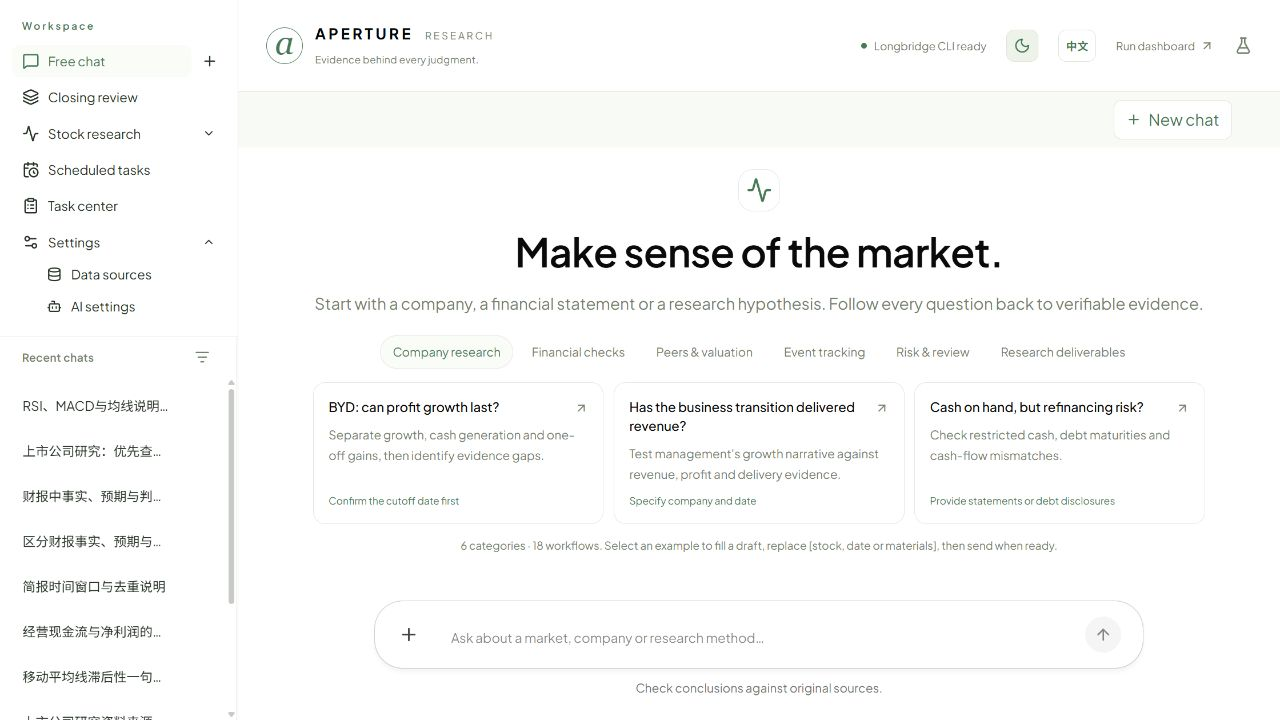
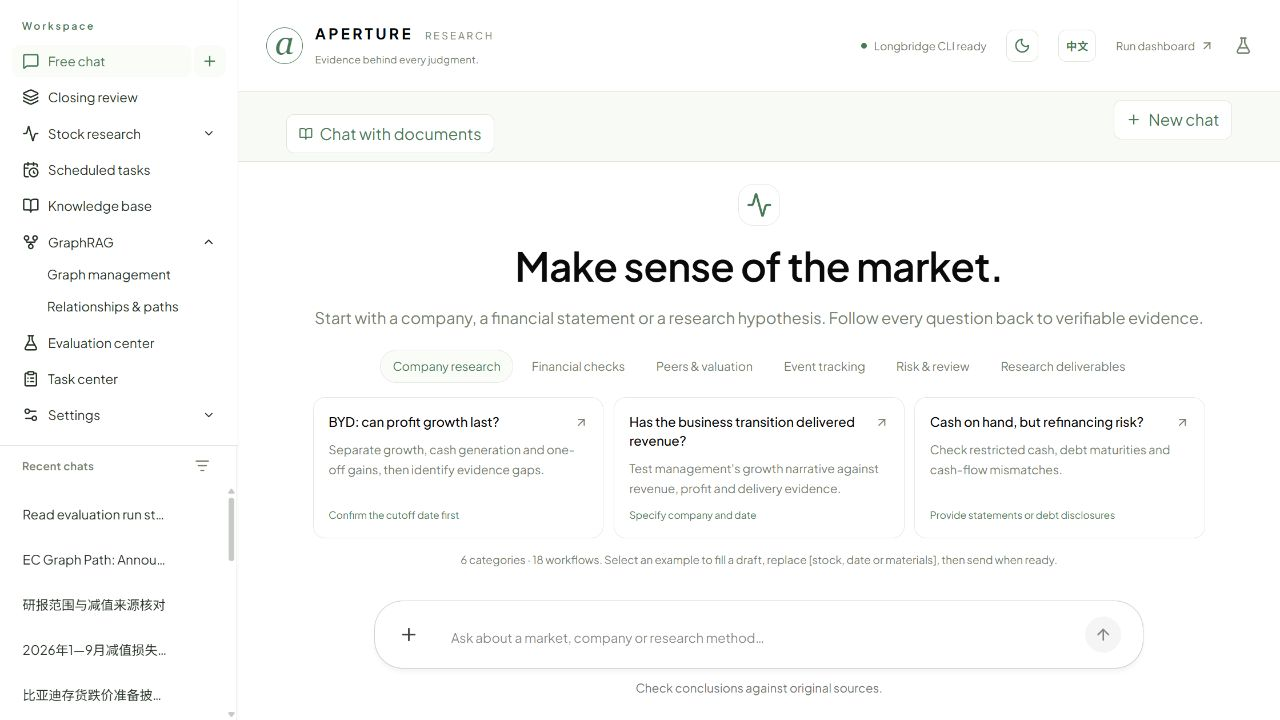
feat: finalize evaluation evidence and document knowledge workflows

diff --git a/copilotkit-app/src/components/evaluations/run-view.tsx b/copilotkit-app/src/components/evaluations/run-view.tsx
@@ -4,6 +4,7 @@ import {ArrowLeft,ExternalLink} from "lucide-react";
 import {researchRequest} from "@/components/workbench-panels";
 import {useDocumentCopy,errorText} from "@/components/documents/shared";
 import {useKnowledgeResource} from "@/components/knowledge/shared";
+import {DocumentDialog} from "@/components/documents/detail";
 import {KnowledgeCitationViewer} from "@/components/knowledge/citation-viewer";
 import {EvalDialog,Status,milliseconds} from "./shared";
 import {AttemptSummary} from "./attempt-summary";
@@ -13,6 +14,7 @@ import type {EvalRun,Attempt} from "./types";
 export function RunView({id,onBack,onOpenRun,onTask}:{id:string;onBack:()=>void;onOpenRun:(id:string)=>void;onTask:(id:string)=>void}){
   const c=useDocumentCopy();const [revision,refresh]=useState(0);const [page,setPage]=useState(1);const [filter,setFilter]=useState("");const [attemptId,setAttemptId]=useState<string|null>(null);const [retry,setRetry]=useState(false);const [cancel,setCancel]=useState(false);const [busy,setBusy]=useState(false);const [error,setError]=useState("");const [citation,setCitation]=useState<{searchId:string;citationId:string}|null>(null);
   const [notice,setNotice]=useState("");
+  const [original,setOriginal]=useState<NonNullable<Attempt["citations"]>[number]|null>(null);
   const [pollMs,setPollMs]=useState(3000);
   const state=useKnowledgeResource<EvalRun>(`evaluations/runs/${id}?page=${page}&status=${filter}`,revision,pollMs);
   const attempt=useKnowledgeResource<{id:string;case:unknown;status:string;result:Attempt}>(attemptId?`evaluations/runs/${id}/attempts/${attemptId}`:null,revision,0);
@@ -32,7 +34,8 @@ export function RunView({id,onBack,onOpenRun,onTask}:{id:string;onBack:()=>void;
     {error&&<p role="alert" className="form-error">{error}</p>}
     <div className="finance-card evaluation-table"><table><thead><tr>{[c("Case / repetition","案例 / 次数"),c("Result","结果"),c("Elapsed","耗时"),c("Provider calls","服务调用"),c("Inspect","检查")].map(x=><th key={x}>{x}</th>)}</tr></thead><tbody>{data.attempts.map(x=><tr key={x.id}><td>{x.case_name||x.case_id.slice(0,20)} · {x.repetition+1}</td><td><Status value={x.status}/>{x.error_type&&<small>{x.error_type}</small>}</td><td>{milliseconds(x.elapsed_ms)}</td><td>{x.model_calls??0}</td><td><button className="chat-config-toggle" onClick={()=>setAttemptId(x.id)}>{c("Details","详情")}</button></td></tr>)}</tbody></table>{!data.attempts.length&&<p>{c("No attempts match this filter.","没有符合筛选的案例。")}</p>}</div>
     <div className="document-actions"><button className="chat-config-toggle" disabled={page===1} onClick={()=>setPage(v=>v-1)}>{c("Previous","上一页")}</button><span>{page}</span><button className="chat-config-toggle" disabled={page*50>=data.total} onClick={()=>setPage(v=>v+1)}>{c("Next","下一页")}</button></div>
-    {attemptId&&<EvalDialog title={c("Attempt evidence & scoring","案例证据与评分")} onClose={()=>setAttemptId(null)}>{attempt.loading?<p role="status">{c("Loading actual attempt…","正在读取真实执行结果…")}</p>:attempt.error?<p role="alert">{attempt.error}</p>:attempt.data&&<><Status value={attempt.data.status}/><p>{attempt.data.result.notice}</p>{attempt.data.result.answer&&<section><h3>{c("Generated answer","实际生成回答")}</h3><p className="evaluation-answer">{attempt.data.result.answer}</p></section>}<h3>{c("Deterministic checks and measured stages","确定性检查与阶段实测")}</h3><AttemptSummary value={attempt.data.result}/>{attempt.data.result.citations?.map((hit,index)=><button key={index} className="chat-config-toggle" disabled={!hit.citation_id||!(attempt.data?.result.search_id||attempt.data?.result.search_ids?.[0])} onClick={()=>setCitation({searchId:attempt.data!.result.source_links?.find(x=>x.citation_id===hit.citation_id&&x.document_id===hit.document_id&&x.page_number===hit.page_number)?.search_id||attempt.data!.result.search_id||attempt.data!.result.search_ids![0],citationId:hit.citation_id!})}>{c("Original PDF page","原始 PDF 页")} {hit.page_number}<ExternalLink size={13}/></button>)}<details><summary>{c("Published case & human reference · never sent as an answer hint","已发布案例与人工标准 · 不作为答案提示")}</summary><pre>{JSON.stringify(attempt.data.case,null,2)}</pre></details></>}</EvalDialog>}
+    {attemptId&&<EvalDialog title={c("Attempt evidence & scoring","案例证据与评分")} onClose={()=>setAttemptId(null)}>{attempt.loading?<p role="status">{c("Loading actual attempt…","正在读取真实执行结果…")}</p>:attempt.error?<p role="alert">{attempt.error}</p>:attempt.data&&<><Status value={attempt.data.status}/><p>{attempt.data.result.notice}</p>{attempt.data.result.answer&&<section><h3>{c("Generated answer","实际生成回答")}</h3><p className="evaluation-answer">{attempt.data.result.answer}</p></section>}<h3>{c("Deterministic checks and measured stages","确定性检查与阶段实测")}</h3><AttemptSummary value={attempt.data.result}/>{attempt.data.result.citations?.map((hit,index)=><button key={index} className="chat-config-toggle" onClick={()=>{const searchId=hit.search_id||attempt.data!.result.source_links?.find(x=>x.citation_id===hit.citation_id&&x.document_id===hit.document_id&&x.page_number===hit.page_number)?.search_id||attempt.data!.result.search_id||attempt.data!.result.search_ids?.[0];if(hit.citation_id&&searchId)setCitation({searchId,citationId:hit.citation_id});else setOriginal(hit);}}>{c("Original PDF page","原始 PDF 页")} {hit.page_number}<ExternalLink size={13}/></button>)}<details><summary>{c("Published case & human reference · never sent as an answer hint","已发布案例与人工标准 · 不作为答案提示")}</summary><pre>{JSON.stringify(attempt.data.case,null,2)}</pre></details></>}</EvalDialog>}
+    {original&&<DocumentDialog id={original.document_id} initialPage={original.page_number} citation={{quote:original.quote||"",document_version:original.document_version||1,metadata_revision:original.metadata_revision||1,published_at:original.published_at,published_on:original.published_on}} readOnly onClose={()=>setOriginal(null)} onChanged={()=>{}} onVersion={()=>{}} onSwitch={()=>{}} onTask={onTask}/>}
     {citation&&<KnowledgeCitationViewer selection={citation} onClose={()=>setCitation(null)}/>}
     {retry&&<RunDialog initial={{...data.config,parent_run_id:data.id}} onClose={()=>setRetry(false)} onStarted={next=>{setRetry(false);onOpenRun(next);setPage(1);}}/>}
     {cancel&&<EvalDialog title={c("Cancel evaluation run","取消评测运行")} onClose={()=>!busy&&setCancel(false)}><p>{c("Completed attempts and reserved/known usage remain. Unknown provider outcomes are not automatically repeated.","已完成案例与预留/已知用量会保留。服务结果未知的调用不会自动重复。")}</p><div className="document-actions"><button className="chat-config-toggle" disabled={busy} onClick={()=>setCancel(false)}>{c("Keep running","继续运行")}</button><button className="chat-config-toggle danger-button" disabled={busy} onClick={async()=>{setBusy(true);try{const result=await researchRequest<{status:string}>(`evaluations/runs/${id}/cancel`,"POST",{});setNotice(result.status==="cancelled"?c("Run cancelled. Completed results are retained.","运行已取消，已完成结果已保留。"):c("This run had already ended. Its saved results are retained.","该运行已结束，原结果已保留。"));refresh(v=>v+1);setCancel(false);}catch(err){setError(errorText(err,c));}finally{setBusy(false);}}}>{c("Confirm cancellation","确认取消")}</button></div></EvalDialog>}

diff --git a/copilotkit-app/src/components/evaluations/types.ts b/copilotkit-app/src/components/evaluations/types.ts
@@ -6,7 +6,7 @@ export type EvalCase = {
   collection_id?:string|null;calculation?:{operation:string;figure_ids:string[];target_unit?:string;signs?:number[]}|null; protected?:boolean;
 };
 export type Dataset={id:string;name:string;description:string;revision:number;archived:boolean;case_count:number;cases:EvalCase[];versions:{id:string;number:number;fingerprint:string;counts:Record<string,number>;created_at:string}[]};
-export type Attempt={calculation?:{value:string;currency:string;unit:string;period_start?:string;period_end?:string;formula?:string};edge_count?:number;path_count?:number;id:string;case_id:string;case_name?:string;repetition:number;status:string;elapsed_ms?:number;model_calls?:number;retrieval_ms?:number;model_ms?:number;measurement?:string;answer?:string;checks?:Record<string,boolean>;metrics?:Record<string,unknown>;error_type?:string;notice?:string;search_id?:string;search_ids?:string[];citations?:{document_id:string;page_number:number;citation_id?:string}[];source_links?:{search_id:string;citation_id:string;document_id:string;page_number:number}[];trace_id?:string;usage?:Record<string,number>};
+export type Attempt={calculation?:{value:string;currency:string;unit:string;period_start?:string;period_end?:string;formula?:string};edge_count?:number;path_count?:number;id:string;case_id:string;case_name?:string;repetition:number;status:string;elapsed_ms?:number;model_calls?:number;retrieval_ms?:number;model_ms?:number;measurement?:string;answer?:string;checks?:Record<string,boolean>;metrics?:Record<string,unknown>;error_type?:string;notice?:string;search_id?:string;search_ids?:string[];citations?:{document_id:string;page_number:number;citation_id?:string;search_id?:string;quote?:string;document_version?:number;metadata_revision?:number;published_on?:string|null;published_at?:string|null}[];source_links?:{search_id:string;citation_id:string;document_id:string;page_number:number}[];trace_id?:string;usage?:Record<string,number>};
 export type Summary={total:number;finished:number;counts:Record<string,number>;pass_rate_all:number|null;recall_at_5:number|null;recall_samples:number;model_calls:number;reported_tokens:number|null;usage_unknown_attempts:number;latency:{samples:number;p50_ms:number|null;p95_ms:number|null;raw_ms:number[]};denominator:string};
 export type RunOptions={version_id:string;partition:"development"|"acceptance";acceptance_confirmed:boolean;mode:"quality"|"retrieval_benchmark"|"list_benchmark"|"agent_performance";repetitions:number;concurrency:1;search_mode:"keyword"|"hybrid";allow_model:boolean;max_calls:number;max_tokens:number;max_output_tokens:number;max_pages:number;timeout_seconds:number;parent_run_id?:string|null};
 export type EvalRun={id:string;dataset_id:string;version_id:string;parent_run_id:string|null;status:string;created_at:string;started_at?:string;queue_wait_ms?:number|null;events?:{kind:string;at:string;metadata:Record<string,unknown>}[];config:RunOptions;summary:Summary&{stages?:Record<string,{samples:number;p50_ms:number|null;p95_ms:number|null}>;unreported_calls?:number};attempts:Attempt[];total:number;counters:{reserved_calls:number;reserved_tokens:number};manifest:Record<string,unknown>;error?:string;progress:{id:string;status:string;detail:string}[]};

diff --git a/copilotkit-app/agent/src/evaluations/execution.py b/copilotkit-app/agent/src/evaluations/execution.py
@@ -78,7 +78,7 @@ def citation_checks(case, hits):
     allowed = {d["id"] for d in case["snapshot"]["documents"] if d["eligible"]}
     with transaction() as db:
         invalid = sum(not evidence_current(db, [hit], allowed) for hit in hits)
-    return {"citations": [{k: h[k] for k in ("document_id", "page_number", "document_version", "metadata_revision", "document_sha256", "citation_id") if k in h} for h in hits],
+    return {"citations": [{k: h[k] for k in ("document_id", "page_number", "document_version", "metadata_revision", "document_sha256", "citation_id", "search_id", "published_on", "published_at") if k in h} | {"quote": h.get("quote", "")[:1500]} for h in hits],
         "invalid_citations": invalid, "date_leaks": sum(h["document_id"] not in allowed for h in hits)}
 
 
@@ -120,7 +120,7 @@ async def execute_case(case, run, attempt_id, token):
         result = FigureRepository().calculate(case["collection_id"], CalculationInput.model_validate(case["calculation"]),
             eligible={d["id"] for d in case["snapshot"]["documents"] if d["eligible"]})
         period = {k: result["inputs"][0][k] for k in ("period_start", "period_end")}
-        return {"calculation_id": result["id"], "calculation": {**{k: v for k, v in result.items() if k not in {"inputs", "references", "request"}}, **period}}
+        return {**citation_checks(case, result["references"]), "calculation_id": result["id"], "calculation": {**{k: v for k, v in result.items() if k not in {"inputs", "references", "request"}}, **period}}
     return await execute_agent(case, run, attempt_id, token, options)
 
 

diff --git a/copilotkit-app/agent/src/evaluations/tools.py b/copilotkit-app/agent/src/evaluations/tools.py
@@ -19,6 +19,7 @@ async def read_evaluation_run(run_id:str):
     """Read actual progress, aggregate metrics and attempt IDs, without generated or frozen answers. No scores are invented; incomplete results are labeled."""
     UUID(run_id);data=EvaluationRepository().detail(run_id)
     data["attempts"]=[{k:a[k] for k in ("id","case_id","repetition","status","elapsed_ms","error_type") if k in a} for a in data["attempts"]]
+    data["measurement_notice"] = "Manifest pages count pinned source pages per case, not pages processed. Latency is per-attempt wall time across the configured targets, not retrieval-only unless the mode is retrieval_benchmark. Reserved calls/tokens are conservative ceilings, not invoices or proof of received provider responses."
     return data
 
 

diff --git a/copilotkit-app/agent/integration_tests/test_evaluations.py b/copilotkit-app/agent/integration_tests/test_evaluations.py
@@ -203,6 +203,8 @@ class EvaluationTests(unittest.IsolatedAsyncioTestCase):
         self.assertEqual(result["status"], "complete", str(result))
         self.assertEqual(result["summary"]["counts"]["passed"], 1, str(result["attempts"]))
         self.assertEqual(result["attempts"][0]["calculation"]["period_end"], "2026-06-30")
+        self.assertEqual(result["attempts"][0]["citations"][0]["document_id"], self.document)
+        self.assertTrue(result["attempts"][0]["citations"][0]["quote"])
 
     async def test_page_budget_and_concurrent_runs(self):
         doc=self.material("Synthetic source");await self.build(doc)

diff --git a/README.md b/README.md
@@ -4,7 +4,7 @@
 
 An evidence-first financial research workspace built with **CopilotKit, Next.js, LangGraph and FastAPI**.
 
-Configure a research team, follow its tool activity, inspect the sources behind a report, and keep asking questions in the report's own context. Bring your own Qwen, DeepSeek or GLM API connection.
+Research companies, manage your source documents, explore reviewed relationships and measure the results. Aperture connects native streaming chat with an online knowledge base, cited RAG, GraphRAG and a versioned evaluation center. Bring your own Qwen, DeepSeek or GLM API connection.
 
 [Interface previews](#interface-previews) · [Features](#features) · [Data](#data) · [Supported AI](#supported-ai) · [Quick start](#quick-start) · [Architecture](#architecture) · [Development](#development)
 
@@ -12,29 +12,35 @@ Configure a research team, follow its tool activity, inspect the sources behind 
 
 ## Interface previews
 
-Actual screenshots of the local application, with public-market research used as examples. The interface defaults to English; **EN / 中文** beside the theme button switches languages and remembers the choice. Saved reports and conversations keep their original language.
+Actual desktop captures from the running application. The interface defaults to English; **EN / 中文** beside the theme button switches languages. Both light and charcoal dark themes are available. Case names, source material and saved model outputs retain their original language.
 
-### Research chat
+### Native research chat
 
-![English research chat and finance workflow examples](docs/screenshots/chat-light.jpg)
+![CopilotKit chat and concrete finance workflow examples](docs/screenshots/chat-light.jpg)
 
-### Research configuration
+### Online knowledge management
 
-![Research target, information cutoff, market and depth](docs/screenshots/research-dark.jpg)
+![Collections, source coverage and online document management](docs/screenshots/knowledge-light.jpg)
 
-### Report and evidence
+### Reviewed GraphRAG and evidence paths
 
-![Research report with native progress stages and source citations](docs/screenshots/report-light.jpg)
+![Reviewed relationships, interactive graph and saved paths](docs/screenshots/graph-dark.jpg)
 
-### Connect your AI
+### Evaluation center
 
-![Provider selection, masked credentials, and connection test feedback](docs/screenshots/ai-settings-dark.jpg)
+![Versioned evaluation runs with actual completion, cancellation and failure states](docs/screenshots/evaluation-light.jpg)
 
-Connection-test feedback:
+### Single-stock research and reports
 
-![Successful greeting test with response and elapsed time](docs/screenshots/ai-test-feedback-dark.jpg)
+![Research configuration in charcoal dark theme](docs/screenshots/research-dark.jpg)
 
-These screenshots illustrate the interface, not a model accuracy claim or an investment recommendation. Existing research may be in Chinese even when the interface is English.
+![Research report and retained evidence](docs/screenshots/report-light.jpg)
+
+### Multi-provider AI settings
+
+![Separate AI provider settings and connection controls](docs/screenshots/ai-settings-dark.jpg)
+
+The research/configuration/report/settings images include earlier workbench views; the knowledge, graph and evaluation captures document this delivery. Public-source QA records illustrate workflows, not independent financial accuracy or investment recommendations. No original PDF corpus or user database is bundled.
 
 ## Features
 
@@ -48,6 +54,11 @@ These screenshots illustrate the interface, not a model accuracy claim or an inv
 | A-share closing review | Review a selected sample against a benchmark, volume ratios, limit-up/down and failed-breakout pools, streaks, next-day follow-through and recent industry distributions.                                                                                             |
 | Candidates and checks  | Keep observations and notes, reuse candidates in reviews and schedules, and save measurable next-trading-day conditions. While the service runs, pending checks are evaluated after the target close when data is available.                                          |
 | Scheduled research     | Draft market morning briefs, topic news roundups, watchlist move scans, filing trackers, weekly reviews or stock research. Presets fill forms; you create the schedule. Enable/disable, run now, inspect per-plan history, or delete records individually/in batches. |
+| Online knowledge base | Upload PDF/images or import supported official links; manage collections, exact document versions, publication-date evidence, extraction coverage, index builds and archive/restore. No server-preloaded folder is required. |
+| Cited document RAG | Keyword or pgvector hybrid retrieval under explicit document/date scope; native document Q&A, original PDF-page citations and exact-document binding for stock research. Missing dates and unreadable pages stay visible. |
+| Reviewed financial arithmetic | Confirm original value, unit, period and basis, then compute with Decimal. Retain reviewed input revisions, formulas, conversions and calculation history. |
+| GraphRAG | Extract relationship proposals from selected originals, verify entity identities, accept/reject/revoke with human review, publish to Neo4j, explore interactive paths and open supporting original pages. Historical snapshots preserve evidence. |
+| Evaluation center | Create/import/edit datasets, publish immutable versions and run real queued retrieval, Agent, graph, calculation or list benchmarks. Inspect checks, failures, raw latency samples, budgets, cancellation, parent-linked retries and run comparisons. |
 | AI and appearance      | Configure separate Qwen, DeepSeek and GLM profiles, test a greeting without saving, then save and activate. Switch English/Chinese and charcoal dark/fresh light themes. Responsive layouts support narrow screens.                                                   |
 
 ### Native CopilotKit, preserved
@@ -56,7 +67,16 @@ The workbench retains **CopilotChat, native tool cards, AG-UI streaming, Generat
 
 Inspector, native thread history and the Intelligence learning integration use your configured **CopilotKit Intelligence** connection. Automatic Learning here means skill extraction and review/publishing, not automatic model training. Upstream integration demonstrations remain at `/playground`.
 
-Optional **Langfuse** exports metadata-only research/tool/model traces through OpenTelemetry. Configure `LANGFUSE_PUBLIC_KEY`, `LANGFUSE_SECRET_KEY` and your regional `LANGFUSE_BASE_URL` in the server `.env`, then recreate services. Prompts, outputs, documents and reasoning are excluded; model token usage is recorded when available. Set `APERTURE_TRACING_ENABLED=false` to disable. This supplements Inspector; the [in-app evaluation center](docs/evaluations.md) now provides versioned datasets and actual background runs, with [final acceptance still in progress](docs/validation/checkpoint-3-evaluations.md).
+Optional **Langfuse** exports metadata-only research/tool/model traces through OpenTelemetry. Configure `LANGFUSE_PUBLIC_KEY`, `LANGFUSE_SECRET_KEY` and your regional `LANGFUSE_BASE_URL` in the server `.env`, then recreate services. Prompts, outputs, documents and reasoning are excluded; model token usage is recorded when available. Set `APERTURE_TRACING_ENABLED=false` to disable. This supplements Inspector; the [in-app evaluation center](docs/evaluations.md) now provides versioned datasets and actual background runs, with [measured acceptance evidence](docs/validation/checkpoint-3-evaluations.md).
+
+### Knowledge-to-evidence workflow
+
+1. **Knowledge base:** create a collection; upload an original or import a supported official link. Record a verified public release date and inspect text/visual coverage.
+2. **RAG:** build a keyword or configured hybrid index; choose a historical cutoff, search evidence and open a native chat bound to exact document versions.
+3. **GraphRAG:** use **Graph management** to extract proposals. Resolve identities and review evidence before publishing. Open **Relationships & paths** to query the reviewed graph.
+4. **Evaluation center:** add your own cases and expected pages/values, publish a version, choose budgets and explicitly start a run. Compare saved runs after source, rule or configuration changes. Chat can read actual results and request a run through a human approval card.
+
+Read the guides: [Document library and RAG](docs/document-library.md) · [Graph research](docs/graph-research.md) · [Evaluation center](docs/evaluations.md).
 
 ## Data
 
@@ -65,6 +85,7 @@ Optional **Langfuse** exports metadata-only research/tool/model traces through O
 | [Longbridge CLI](https://open.longbridge.com/) | Primary prices, daily bars, financial data, news, company announcements, community samples and exchange calendars | Supports configured HK, US, Shanghai, Shenzhen and Singapore research. Availability depends on your account, permissions and the endpoint's history window. |
 | Tencent Finance                               | Fallback unadjusted mainland daily bars                                                                           | Used when supported Longbridge historical data is unavailable; the source is recorded.                                                                      |
 | Eastmoney public data                         | A-share events, trading disclosures, share unlocks, shareholder dealings and closing market pools                 | Records are checked against dates; issuer announcement links are retained where verified. Pool counts use the source's definitions.                         |
+| Your documents | User-uploaded PDFs/images and supported official-source imports | Originals in S3-compatible storage; exact versions, publication evidence and derived text/index coverage retained. Cached public examples are not bundled or auto-loaded. |
 | Local calculations                            | Moving averages, RSI/MACD, volatility, relative performance, condition checks and report price alignment          | Computed by code from retained data. Unadjusted prices can jump around corporate actions; price changes are not total investment returns.                   |
 
 ### Research boundaries
@@ -169,21 +190,33 @@ Submitted research runs in independent Celery workers and survives API restart. 
 
 ```mermaid
 flowchart LR
-    UI[Next.js workspace + native CopilotChat] <--> Runtime[CopilotKit Runtime]
-    Runtime <-->|AG-UI streams and shared state| Agent[FastAPI + LangGraph]
+    UI[Next.js workspace / CopilotChat] <--> Runtime[CopilotKit Runtime]
+    Runtime <-->|AG-UI / tools / shared state| Agent[FastAPI / LangGraph]
     Runtime <--> Intelligence[Optional CopilotKit Intelligence]
-    UI <-->|Allowlisted research and settings API| Agent
-    Agent --> Research[Evidence → analysts → bull/bear and risk review → report]
-    Research --> Models[Qwen / DeepSeek / GLM]
-    Research --> Sources[Read-only market data + Python calculations]
-    Agent <--> PostgreSQL[PostgreSQL: reports, plans and checkpoints]
+    UI <-->|Allowlisted APIs| Agent
+    Agent --> Models[Qwen / DeepSeek / GLM]
+    Agent --> Sources[Read-only market data]
+    Agent <--> PG[PostgreSQL + pgvector]
     Agent --> Outbox[Transactional outbox]
-    Outbox --> RabbitMQ
-    RabbitMQ --> Workers[Independent Celery workers]
-    Workers --> PostgreSQL
-    Workers --> Research
-    Workers <--> Redis[Disposable market cache]
+    Outbox --> MQ[RabbitMQ]
+    MQ --> Workers[Research / documents / knowledge / evaluation workers]
+    Workers <--> PG
+    Workers <--> S3[S3-compatible originals and artifacts]
+    Workers <--> Neo4j[Reviewed graph projection]
+    Workers <--> Redis[Disposable cache]
+    Workers --> Models
+    Workers -. metadata only .-> Langfuse[Optional Langfuse]
 ```
+
+| Layer | Technology and role |
+| --- | --- |
+| Frontend | Next.js 16, React 19, TypeScript, CopilotKit 1.79; Recharts and Cytoscape for charts/graphs |
+| Agent/API | Python 3.12+, FastAPI, LangGraph, LangChain, OpenAI-compatible provider adapters |
+| Durable state | PostgreSQL 17; pgvector; SQLAlchemy/psycopg; Alembic; PostgreSQL LangGraph checkpoints |
+| Jobs and cache | Celery, RabbitMQ, transactional outbox and fenced leases; Redis TTL cache |
+| Evidence and graph | S3 API (local SeaweedFS), PDF extraction/rendering, Neo4j reviewed projections |
+| Observability and verification | Native CopilotKit Inspector, optional metadata-only Langfuse/OpenTelemetry; GitHub Actions build, domain and real-service tests |
+
 
 The model interprets evidence. Code computes technical indicators, schedules, condition outcomes and common-session comparisons.
 
@@ -198,7 +231,7 @@ The model interprets evidence. Code computes technical indicators, schedules, co
 
 ## Development
 
-Follow the [Git and PR workflow](CONTRIBUTING.md). The next GitHub delivery is split into [four user-confirmed checkpoints](docs/releases/knowledge-v0.2.md): preserve the current implementation, finish RAG/GraphRAG acceptance, implement in-app evaluation, then validate and merge through a PR. Vision, company Wiki/theses and incremental knowledge tracking follow in a later release. This branch is a development checkpoint, not a completed release.
+Follow the [Git and PR workflow](CONTRIBUTING.md). The [delivery record](docs/validation/github-knowledge-delivery.md) records local verification and the PR/CI for the knowledge/evaluation delivery. Changes go through feature branches and pull requests. Vision, company Wiki/theses and incremental knowledge tracking follow in a later release.
 
 ```powershell
 cd copilotkit-app
@@ -210,7 +243,7 @@ uv run python -m unittest discover -s tests -v
 
 The Python suite uses isolated real PostgreSQL databases and namespaced Redis cache, so infrastructure must be running. It covers research boundaries, tasks, schedules, report comparison, market review, follow-ups and provider configuration. Provider failure tests use controlled failures; real connection checks consume a small model request.
 
-Research knowledge includes online collections/documents, scoped keyword/hybrid retrieval, native document Q&A, reviewed numeric inputs with reproducible Decimal calculations, and exact-document binding for single-stock tasks. GraphRAG supports automatic proposals, explicit human identity/relationship review, publication, interactive paths and read-only graph tools inside document chat. The [checkpoint 2 acceptance record](docs/validation/checkpoint-2-rag-graph.md) documents real public-source browser workflows, production UI checks and remaining limits. See [Document library](docs/document-library.md), [Graph research](docs/graph-research.md) and the [broader validation matrix](docs/validation/research-knowledge-validation.md). The [evaluation center](docs/evaluations.md) supports online dataset/version management, real queued retrieval/Agent/graph/calculation/list evaluation, failure inspection, budgets, cancellation, retries and comparisons. Its [checkpoint 3 early-review record](docs/validation/checkpoint-3-evaluations.md) lists actual results and unfinished live Agent/UI checks. Visual verification, Wiki/theses, advanced lifecycle/governance and full production acceptance remain unfinished. This is a feature-branch checkpoint; final release/PR merge has not occurred.
+Research knowledge includes online collections/documents, scoped keyword/hybrid retrieval, native document Q&A, reviewed numeric inputs with reproducible Decimal calculations, and exact-document binding for single-stock tasks. GraphRAG supports automatic proposals, explicit human identity/relationship review, publication, interactive paths and read-only graph tools inside document chat. The [checkpoint 2 acceptance record](docs/validation/checkpoint-2-rag-graph.md) documents real public-source browser workflows, production UI checks and remaining limits. See [Document library](docs/document-library.md), [Graph research](docs/graph-research.md) and the [broader validation matrix](docs/validation/research-knowledge-validation.md). The [evaluation center](docs/evaluations.md) supports online dataset/version management, real queued retrieval/Agent/graph/calculation/list evaluation, failure inspection, budgets, cancellation, retries and comparisons. Its [evaluation acceptance record](docs/validation/checkpoint-3-evaluations.md) distinguishes actual runs, remaining coverage and deterministic scoring limits. Visual verification, Wiki/theses, advanced lifecycle/governance and full production acceptance remain unfinished. The independent frozen quality targets and broad load/fault matrix are not claimed as passing.
 
 See [validation notes](copilotkit-app/VALIDATION.md) for actual test paths and unverified areas, and the [research roadmap](copilotkit-app/RESEARCH-ROADMAP.md) for remaining gaps. Full commercial production readiness is not implied by a successful local build.
 
@@ -222,6 +255,7 @@ copilotkit-app/
   agent/main.py     FastAPI entry point and LangGraph lifecycle
   agent/src/        Model adapters, data, workflows, persistence and scheduling
   agent/tests/      Business logic and boundary tests
+  agent/integration_tests/  Real-service and recovery checks
   scripts/          Build/start helpers and integration checks
 docs/screenshots/   Actual interface previews
 ```
@@ -229,3 +263,11 @@ docs/screenshots/   Actual interface previews
 ## Acknowledgments and license
 
 See [LICENSE](copilotkit-app/LICENSE). Market-data and model access remain subject to their providers' terms. Research output is for information and learning, not personalized investment advice.
+
+## Current limits and next steps
+
+- This release supports local single-user research. Public authentication/tenant isolation, billing and managed production hosting remain future work.
+- Graph extraction creates reviewable proposals; an LLM proposal is never automatically a verified business relationship.
+- Evaluation scores cover configured deterministic checks. They do not establish semantic answer accuracy, investment performance or generalization. Repeated performance samples are not independent quality cases; unknown usage/outcomes remain explicit.
+- Vision/OCR reasoning for unreadable pages, LLM Wiki/thesis lifecycle, incremental knowledge tracking and automated semantic judges are planned. Unsupported evaluation targets remain visible rather than receiving fabricated passes.
+- Desktop EN/ZH light/dark paths were checked; mobile acceptance and broader concurrency/load testing are deferred. See [release evidence and limits](docs/validation/github-knowledge-delivery.md).

diff --git a/docs/validation/github-knowledge-delivery.md b/docs/validation/github-knowledge-delivery.md
@@ -1,0 +1,31 @@
+# GitHub knowledge and evaluation delivery
+
+Date: 2026-11-08. The user explicitly requested pushing the feature branch, merging into main and refreshing the bilingual README with feature-page previews. This supersedes the previous checkpoint-4 authorization gate. After the merge and remote verification, work pauses; deferred features are not started.
+
+PR: [#2 — online research knowledge, reviewed GraphRAG and evaluation center](https://github.com/A1f1ed/Financial_Research_Agent/pull/2). Source branch: `codex/research-knowledge-v1`. Keep the branch after merge. No release tag or public deployment is requested.
+
+## Delivered scope
+
+- Existing CopilotKit native chat, AG-UI streaming/tool/reasoning cards, frontend/HITL tools, shared state, Inspector and configured Intelligence integration retained.
+- Online collections/documents, exact versions, publication/date evidence, extraction coverage, archive/history, real keyword/pgvector indices, original-page citation and scoped native document Q&A; reviewed Decimal inputs/calculations and single-stock document binding.
+- Real-document relationship extraction, explicit identity/evidence review, accept/reject/revoke, durable Neo4j publication, interactive Cytoscape graph, readable paths, historical snapshots and original-page links.
+- Online versioned evaluation datasets, separate frozen/development partitions, immutable source/rule manifests, dedicated Celery execution, results and timings, error/unsupported/unknown/budget/cancel states, independent retries, comparison, CSV/JSON export and native Agent read/human-approved-start tools.
+- English-default README with Chinese counterpart: feature summary, online workflows, supported AI, data coverage, setup/operations, architecture/technology and actual screenshots. New preview files are `knowledge-light.jpg`, `graph-dark.jpg`, `evaluation-light.jpg`; `chat-light.jpg` is refreshed. Prior research/report/settings screenshots are explicitly identified as earlier workbench views.
+
+## Verification
+
+Local production build and TypeScript passed after the final evidence-navigation changes. Final full local suites: 98 real-service integration tests / 69.675 s and 88 domain/business tests / 62.571 s; after the small evidence-link adjustment, the affected evaluation suite passed 15 tests / 12.892 s. Full tests run again on the final GitHub PR head.
+
+Stream checks preserve canonical text/tool arguments/lifecycle and reasoning/retry order; Unicode original-offset selection and standalone build cleanup checks passed. Isolated real PostgreSQL migrations, schema drift and downgrade/re-upgrade are covered by integration tests. RabbitMQ/Redis/Neo4j/S3 tests use real disposable/local services; model-provider tests use controlled doubles unless the acceptance records explicitly state a real request.
+
+Actual browser paths: EN/light and ZH/dark result views; online fresh PDF upload → collection/index → new dataset/import/publish → real run; native evaluation read → human review → approved no-model run → correct result; graph and calculation evaluation → exact original PDF; real CSV download; refreshed chat/knowledge/graph/evaluation previews. Original services and the production-mode local frontend remain running for user review; scheduler remains disabled. Mobile is intentionally deferred.
+
+GitHub Actions `Verification` has two jobs: frontend production build/type/stream/evidence/cleanup checks, and Python domain plus real-service integration/migration tests. It generates disposable CI credentials, starts pinned infrastructure, uses no model vendor secrets and cleans up only its ephemeral runner's containers/volumes. The final exact PR-head check results must be successful before merge; missing checks are not treated as passed. PR #2 is the authoritative live check/merge record.
+
+## Limits retained
+
+This is a local single-user application. SaaS authentication/tenant isolation, billing/hosting, vision interpretation, Wiki/thesis lifecycle, incremental knowledge discovery and advanced graph governance remain future work. Local scheduling is paused; manual Run now remains available. A model connection greeting or deterministic source/number check is not financial accuracy, semantic entailment, trading performance or production readiness. Repeated benchmarks are performance samples, not independent quality cases; cold/warm caches are uncontrolled and there is no controlled before/after speedup claim.
+
+Frozen acceptance references are hidden from evaluated prompts and Agent tools; explicit human UI reveal remains possible in this single-user app. The full frozen 24-case quality benchmark has not been passed or tuned for this release. Broader rapid-switch/archive/legacy-mapping/decline UI matrix, mobile, load/resource and multi-service outage/backup drills remain limited beyond the specifically exercised paths. See [checkpoint 2](checkpoint-2-rag-graph.md), [checkpoint 3 and release follow-up](checkpoint-3-evaluations.md), and the [broader roadmap matrix](research-knowledge-validation.md).
+
+Rollback/recovery: back up PostgreSQL and named object/service volumes before upgrades; never `down -v` a user's environment. Use additive Alembic migrations and the existing documented offline legacy migration/recovery tools. Reverting UI/application code does not reverse retained user data. Do not downgrade a populated business database without a verified recovery plan. CI teardown is restricted to fresh hosted runners.

diff --git a/docs/validation/checkpoint-3-evaluations.md b/docs/validation/checkpoint-3-evaluations.md
@@ -46,3 +46,15 @@ Fresh-source document `d80afd05-faa1-4111-b52b-43f3607da1c4` was uploaded throug
 - Final checkpoint-3 aggregate regression/desktop EN/ZH light/dark review, documentation and exact-secret/artifact preflight before declaring this checkpoint complete. Full frozen-set financial/vision/Wiki quality targets remain future work, not an acceptance badge for this feature.
 
 The user may review the feature branch now. Checkpoint 4 (final release checks, actual CI, PR, main merge and pause) still requires separate authorization.
+
+## Release follow-up, 2026-11-08
+
+After the early snapshot, the user explicitly requested README updates and a PR merge into main. This authorizes checkpoint 4; the earlier gate statements above describe the historical snapshot and are superseded by this instruction. The broader M0–M6 roadmap and independent frozen quality targets remain unfinished.
+
+- Live native CopilotChat called `read_evaluation_run` and returned real saved results, then `list_evaluation_records` and frontend `startEvaluationRun`. The human review card appeared before execution. Explicitly approving one development/no-model repetition created run `7c85d954-8326-46f5-a59b-15b3d6ad1f1a`; its Open evaluation run button opened the correct persisted result, 1/1 contract pass, zero provider calls in that evaluation. Chat itself uses the configured provider; this is not a zero-cost chat claim. Some natural-language metric wording was imprecise, so the read tool now explicitly distinguishes pinned scope pages, heterogeneous attempt timing and reservations.
+- Final mixed run `23fb77ff-2b95-416f-8c7e-f1ee6c793361` passed its 3 configured retrieval/calculation/graph cases, zero provider calls. Original PDF links opened the numeric input at PDF page 2 / metadata revision 2 and the reviewed EC graph source at PDF page 1 / revision 1. Bounded source excerpts/provenance are retained; past results are not backfilled.
+- Actual browser CSV export downloaded three result rows with IDs, status and timings, without expected answers or generated answer text.
+- New durable README screenshots show the running knowledge library, graph, evaluation center and refreshed chat. No original PDF pages are included in these added preview images.
+- Final local suites before the evidence-link adjustment: 98 integration tests / 69.675 s, 88 domain tests / 62.571 s. The adjusted evaluation suite passed 15 tests / 12.892 s; final production build, stream/lifecycle/order, Unicode evidence-selection and standalone cleanup checks passed. Actual GitHub CI repeats the final build and whole backend suites on the PR head before merge.
+
+The outstanding legacy source-mapping UI, decline-card branch, broader rapid-switch/archive/compare matrix, mobile and broad load/fault work remain coverage limits; automated tests and the exercised paths above do not silently certify them. User-requested delivery merges this documented local single-user feature scope, not a production SaaS or full financial-quality benchmark. See [GitHub delivery](github-knowledge-delivery.md) for the PR/check status and pause boundary.

diff --git a/docs/releases/knowledge-v0.2.md b/docs/releases/knowledge-v0.2.md
@@ -1,6 +1,6 @@
 # 研究知识首版交付计划
 
-更新：2026-11-07。用户已确认按四个检查点推进，**每完成一点，由用户决定是否开始下一点**。
+更新：2026-11-08。用户已确认按四个检查点推进，**每完成一点，由用户决定是否开始下一点**。
 
 本次“上线”指提交到 GitHub，并在通过验收后通过 PR 合并 `main`，不包含公网部署。候选版本为 v0.2，正式标签在第 4 点核对现有标签及实际交付范围后确定。本次开发分支为 `codex/research-knowledge-v1`。
 
@@ -31,8 +31,8 @@
 | --- | --- | --- | --- |
 | 1 · 保存与规范 | 保存现有实现到功能分支、提交并推送远端；写入首版/下一版范围、Git/PR 规范；检查提交内容 | 已完成：用户确认公开发布，快照已推送并核对远端；见下方记录 | 等待用户明确同意第 2 点；本次公开推送许可不表示第 2 点获准 |
 | 2 · RAG 与图谱闭环 | 完整验收及必要补齐，真实网页、模型/服务边界与回归；记录实测和未覆盖项 | 已完成本检查点的功能验收；见[验收记录](../validation/checkpoint-2-rag-graph.md)，不代表完整 PRD 或生产就绪 | 等待第 3 点授权 |
-| 3 · 评测中心 | App 内数据集/版本、后台运行、真实结果/失败/比较及 Agent 接入，完成对应验收 | 2026-11-08 已获准执行；核心实现与真实服务运行已完成，用户要求提前验收分支，见[第 3 点记录](../validation/checkpoint-3-evaluations.md)；最终验收仍在进行 | 完成后等待第 4 点授权 |
-| 4 · GitHub 首版交付 | 最终回归/构建/UI/文档及实际 CI 检查，创建 PR、解决阻断项、合并并核对远端 `main`，随后暂停 | 尚未获准开始 | 用户同意第 4 点且发布检查通过；不自动开发下一版 |
+| 3 · 评测中心 | App 内数据集/版本、后台运行、真实结果/失败/比较及 Agent 接入，完成对应验收 | 2026-11-08 已获准执行；核心实现与真实服务运行已完成，用户要求提前验收分支，见[第 3 点记录](../validation/checkpoint-3-evaluations.md)；原生 Agent 人工确认启动及图谱/计算原页补充验收通过 | 用户已明确要求进入 PR/main 合并交付 |
+| 4 · GitHub 首版交付 | 最终回归/构建/UI/文档及实际 CI 检查，创建 PR、解决阻断项、合并并核对远端 `main`，随后暂停 | 2026-11-08 用户明确要求合并 main 并更新 README，已获准；见[交付记录](../validation/github-knowledge-delivery.md) | 当前提交检查通过后合并并核对；随后暂停 |
 
 确认只对对应检查点生效。异步任务继续运行、对话自动继续、时间经过或用户未回答，均不表示同意开始下一点。允许在当前获准检查点内完成必要修复与复查；发现需要改变首版边界或显著增加范围时先说明。
 

diff --git a/docs/PRD-research-knowledge.md b/docs/PRD-research-knowledge.md
@@ -2,7 +2,7 @@
 
 版本：1.5 · 日期：2026-11-07 · 状态：完整路线图与分批发布基线
 
-1.5 发布拆分（用户明确要求）：本次先完成 RAG 完整验收、GraphRAG 自动抽取的真实网页闭环、App 内评测中心及受影响研究工作台回归，通过功能分支和 PR 合并 GitHub `main` 后暂停。视觉、Wiki/论点、增量知识跟踪和高级治理放到下一次，不作为本次提交版的完成前提。具体范围和四个必须逐点等待用户确认的检查点见 [首版交付计划](releases/knowledge-v0.2.md)，Git 标准见 [CONTRIBUTING](../CONTRIBUTING.md)。下文 M0–M6 保留完整长期需求；本次 GitHub 版本完成不等于完整长期目标全部达成。第 1、2 点已完成对应检查点；2026-11-08 用户明确同意开始第 3 点，第 4 点仍须另行确认。GitHub 发布不包含公网部署。
+1.5 发布拆分（用户明确要求）：本次先完成 RAG 完整验收、GraphRAG 自动抽取的真实网页闭环、App 内评测中心及受影响研究工作台回归，通过功能分支和 PR 合并 GitHub `main` 后暂停。视觉、Wiki/论点、增量知识跟踪和高级治理放到下一次，不作为本次提交版的完成前提。具体范围和四个必须逐点等待用户确认的检查点见 [首版交付计划](releases/knowledge-v0.2.md)，Git 标准见 [CONTRIBUTING](../CONTRIBUTING.md)。下文 M0–M6 保留完整长期需求；本次 GitHub 版本完成不等于完整长期目标全部达成。第 1、2 点已完成对应检查点；第 3 点已实现在线评测核心闭环，2026-11-08 用户进一步明确要求更新 README 并经 PR 合并 main，已授权第 4 点交付。当前验证及边界见 [GitHub 交付记录](validation/github-knowledge-delivery.md)。GitHub 发布不包含公网部署。
 
 1.4 增补：知识库完整管理系统、GraphRAG 管理系统、GraphRAG 可视化、评测系统四项均必须在当前 App 内实现，并提供明确可发现的功能入口。GraphRAG 管理与可视化分别验收；不能以已有文档上传页面、单张关系图、外部数据库管理页或 Langfuse 后台替代完整业务模块。下文新增导航、管理范围和逐项交付门槛；要求已写入不代表功能已完成。
 

diff --git a/docs/validation/research-knowledge-progress.md b/docs/validation/research-knowledge-progress.md
@@ -2,6 +2,8 @@
 
 Baseline: [PRD v1.5](../PRD-research-knowledge.md), retaining the complete in-app knowledge/GraphRAG/visualization/evaluation roadmap and adding a user-approved [four-checkpoint GitHub release plan](../releases/knowledge-v0.2.md). Each checkpoint needs the user's explicit authorization before the next starts. This file records historical implementation evidence; unfinished long-term stages are not relabeled complete by the release split.
 
+**GitHub delivery follow-up:** the user has now explicitly authorized README updates and PR/main merge. Core evaluation, live Agent human-approved start and graph/calculation original-page paths are exercised; actual screenshots and CI were added. [Delivery record](github-knowledge-delivery.md) and PR #2 distinguish this runnable single-user scope from unfinished roadmap/quality work. After merge verification, pause rather than begin deferred features.
+
 ## Latest — 2026-11-08 checkpoint 2 accepted locally
 
 **Checkpoint 3 early review, 2026-11-08:** online evaluation datasets/immutable versions, dedicated background runs, real result/compare/export pages and guarded Agent wiring are implemented. Real new-upload retrieval, graph and reviewed-calculation runs passed after fixing a date-persistence defect. Latest focused suite 15 passed; full suites 96 integration / 88 domain passed before the final two added regression cases. Worker-loss/cancellation tests preserved completed results and explicitly counted unknown/cancelled attempts. The user requested an early feature-branch snapshot; [acceptance evidence and outstanding checks](checkpoint-3-evaluations.md) distinguish implemented behavior from unfinished live Agent/UI acceptance. Checkpoint 3 is not declared complete; checkpoint 4 remains gated.
